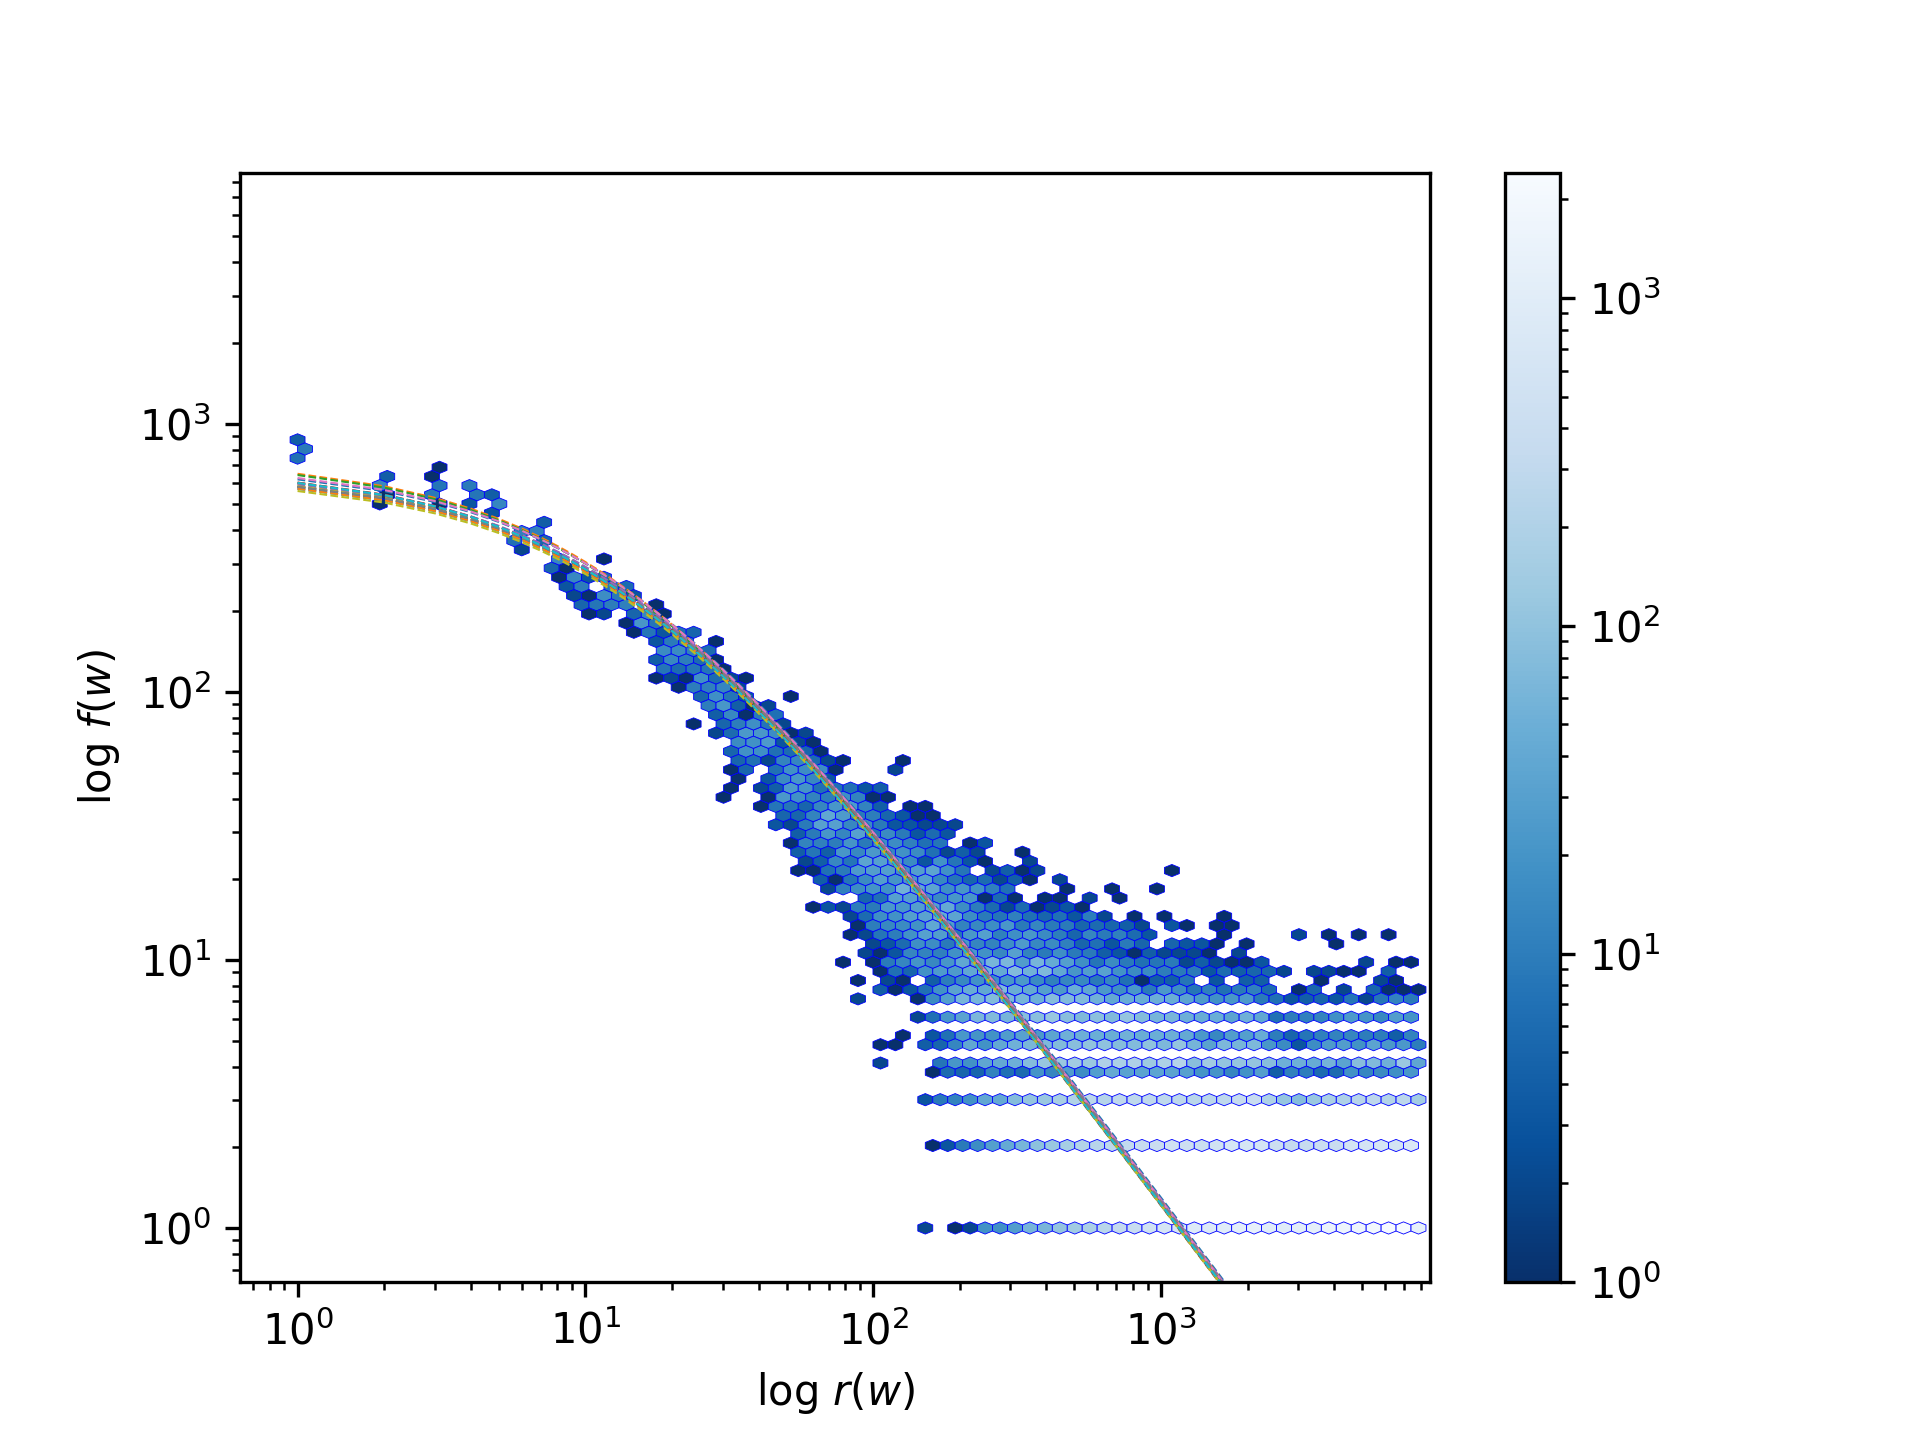
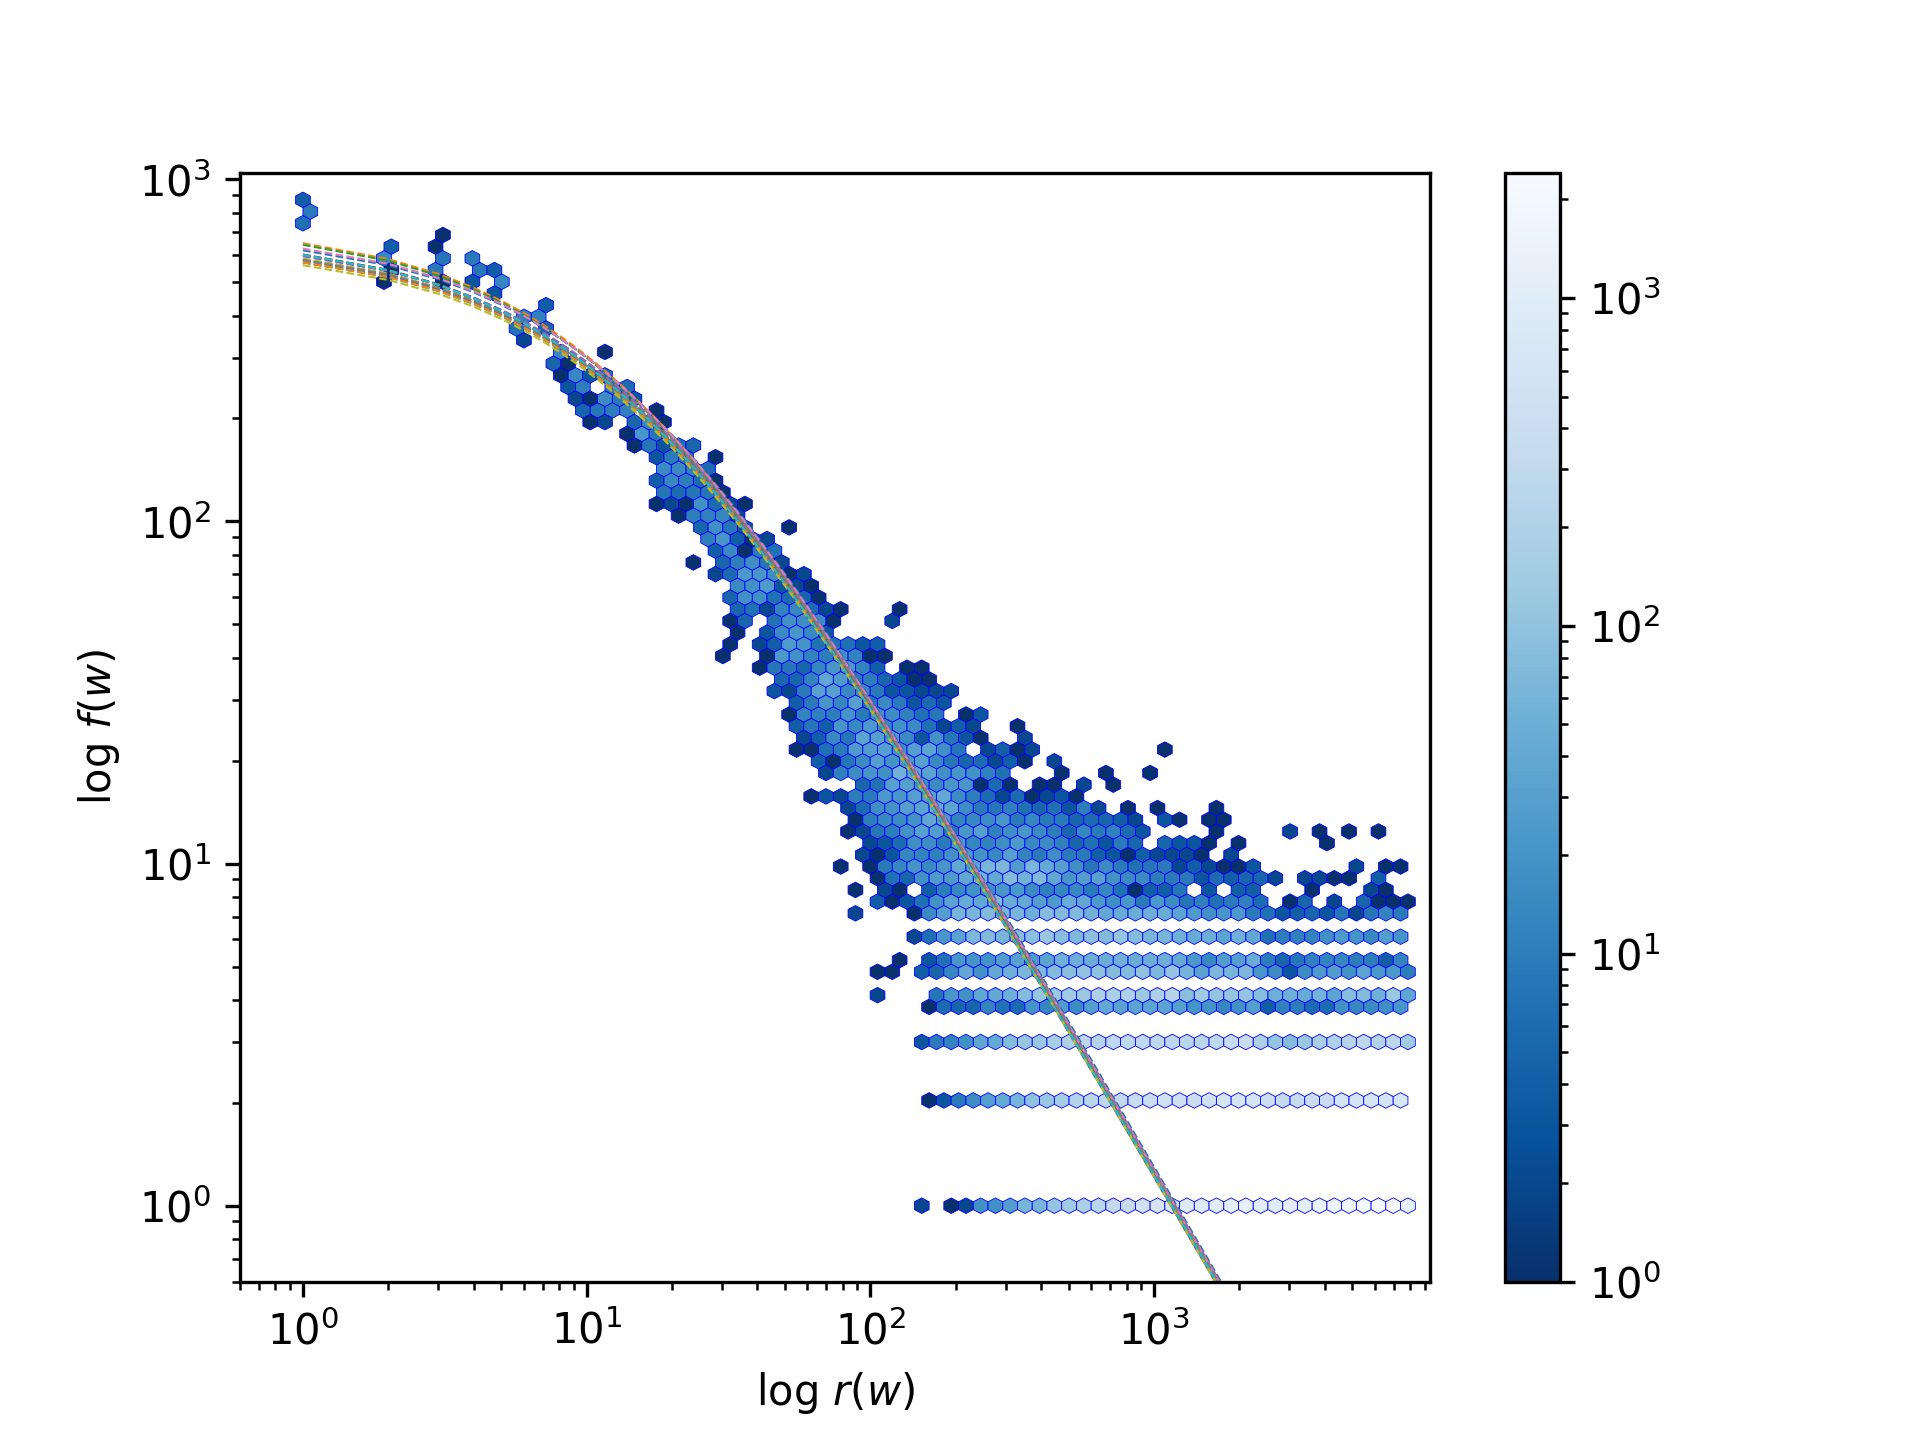
plotting

diff --git a/stats/plotting.py b/stats/plotting.py
@@ -21,25 +21,47 @@ def remove_zeros(xs, ys=None):
     else:
         return list(filter(None, xs))
         
+
+def get_lims(xs, ys, log=False, equal_aspect=False):
+    lows = min(xs), min(ys)
+    highs = max(xs), max(ys)
     
-def get_lims(xs, ys, log=True):
     if log:
-        lower = 10**(-0.2)
+        c_low, c_high = (lambda x: x*0.8), (lambda x: x*1.2)   
     else:
-        lower = 0.
+        c_low, c_high = (lambda x: x*0.6), (lambda x: x*1.05)   
     
-#    lower = min([min(xs), min(ys)])
-#    lower -= 0.1*lower
+    if log:
+        lows = tuple(max(10**-10, l) for l in lows)
     
-    upper = max([max(xs), max(ys)])
-    upper += 0.1*upper
-    return lower, upper
+    if equal_aspect:
+        lims = (c_low(min(lows)),)*2, (c_high(max(highs)),)*2
+        return list(zip(*lims))
+    
+#    return (.9*lows[0], .9*lows[1]),\
+#                (1.1*highs[0], 1.1*highs[1])
+    return (c_low(lows[0]), c_high(highs[0])),\
+                (c_low(lows[1]), c_high(highs[1]))                    
+                
+    
+#def get_lims(xs, ys, log=True):
+#    if log:
+#        lower = 10**(-0.2)
+#    else:
+#        lower = 0.
+#    
+##    lower = min([min(xs), min(ys)])
+##    lower -= 0.1*lower
+#    
+#    upper = max([max(xs), max(ys)])
+#    upper += 0.1*upper
+#    return lower, upper
 
 
 
 def hexbin_plot(xs, ys, xlbl=None, ylbl=None, log=True,
                 ignore_zeros=True, cbar=True,
-                set_aspect=False, lims=None, **plt_args):
+                set_aspect=False, lims=None, equal_aspect=False, **plt_args):
         
     if ignore_zeros:
         pos_xs, pos_ys = remove_zeros(xs, ys)
@@ -55,15 +77,17 @@ def hexbin_plot(xs, ys, xlbl=None, ylbl=None, log=True,
         
     if cbar:
         plt.gcf().colorbar(hb)
-    if set_aspect:
-        plt.gca().set_aspect('equal', adjustable='datalim', anchor="C")
             
     if lims is None:
-        lims = get_lims(xs, ys, log=log)
-    print("LIMS", lims)
-    plt.xlim(lims)
-    plt.ylim(lims)
-    
+        lims_x, lims_y = get_lims(pos_xs, pos_ys, log=log, equal_aspect=equal_aspect)
+        print("LIMS: ", lims_x, lims_y)
+    plt.xlim(lims_x)
+    plt.ylim(lims_y)
+#    plt.autoscale(tight=False)
+
+
+    if set_aspect:
+        plt.gca().set_aspect('equal', adjustable='datalim', anchor="C")
     
     if xlbl:
         plt.xlabel(xlbl)
@@ -117,3 +141,8 @@ def simple_scatterplot(xs, ys, ignore_zeros=False, log=True, xlbl=None,
 #plt.hexbin(spec_words.domain, spec_words.propens, label="word")
 #plt.legend()
 #plt.show()
+        
+        
+def f(x=1, y=2):
+    return x+y
+    

diff --git a/stats_eval.py b/stats_eval.py
@@ -136,7 +136,7 @@ if __name__ == "__main__":
     
     sentence_spec_suite.plot("residual", ind=i, preds=mandel_preds[i], 
                              unify_domains=False, cmap="Blues_r", 
-                             edgecolor="blue", gridsize=150)
+                             edgecolor="blue", gridsize=75)
 #    x_lims = min(uni_domain)/2, max(uni_domain)*2
 #    y_lims = 10**(-2.5), 100
 #    plt.xlim(x_lims)
@@ -163,10 +163,12 @@ if __name__ == "__main__":
     
     #VAR IN RESIDUALS    
     sentence_spec_suite.plot(plot_type="residual_all", preds=mandel_preds_uni, 
-                             cbar=True, gridsize=150)
+                             cbar=True, gridsize=150,
+                             color="blue", label="pooled")
     randi = rand.randint(0, sentence_spec_suite.n_specs)
     sentence_spec_suite.plot(plot_type="residual", preds=mandel_preds_uni[randi],
-                             ind=randi, gridsize=175, cbar=False)
+                             ind=randi, gridsize=175, cbar=False,
+                             color="red", label="single")
     
 #    plt.plot(uni_domain, np.ones_like(uni_domain), "--", color="red",
 #             linewidth=0.5)    
@@ -175,6 +177,7 @@ if __name__ == "__main__":
 #    y_lims = 10**(-2.5), 100
 #    plt.xlim(x_lims)
 #    plt.ylim(y_lims)
+    plt.legend()
     plt.savefig(summary_dir + str(sentence_spec_suite) + "hexbins" + "_hexbin" + "_resid",
                 dpi=300)    
     plt.close()
@@ -340,7 +343,7 @@ if __name__ == "__main__":
     
     
     plt.legend(loc="upper left")
-    plt.ylim((0, 5*10**5))
+#    plt.ylim((0, 5*10**5))
     plt.ticklabel_format(style="sci", scilimits=(0, 0))
     plt.savefig(summary_dir + "heaps", dpi=300)
     plt.close()
@@ -365,7 +368,7 @@ if __name__ == "__main__":
                     for n, (h, hm) in heap_models.items()}   
     
     
-    colors = ["purple", "blue", "green", "orange", "red", "black"]
+    colors = ['orange', 'red', 'green', 'blue', 'purple', "black"]
     for i, (n, h) in enumerate(hapaxes.heaps.items()):
         h.plot("hexbin", cbar=False, edgecolors=colors[i%len(colors)],
                 label=str(n), color=colors[i%len(colors)], linewidths=0.5,
@@ -375,7 +378,7 @@ if __name__ == "__main__":
     
     plt.colorbar()
     plt.legend(loc="upper left")
-    plt.ylim((0, 1.5*10**4))
+#    plt.ylim((0, 1.5*10**4))
     plt.ticklabel_format(style="sci", scilimits=(0, 0))
     plt.savefig(summary_dir + "hapaxes", dpi=300)
     plt.close()

diff --git a/stats/zipf_estimation.py b/stats/zipf_estimation.py
@@ -28,7 +28,7 @@ def residuals(preds, true_propens, log=True, rm_0=True):
         ratios = lg(preds) - log_propens
     else:
         ratios = np.asarray(preds)/np.asarray(true_propens)
-    ratios[np.isinf(ratios)] = lg(1e-10) if log else 1e-10
+    ratios[np.isinf(ratios)] = 0 # lg(1e-10) if log else 1e-10
     return ratios
 
 
